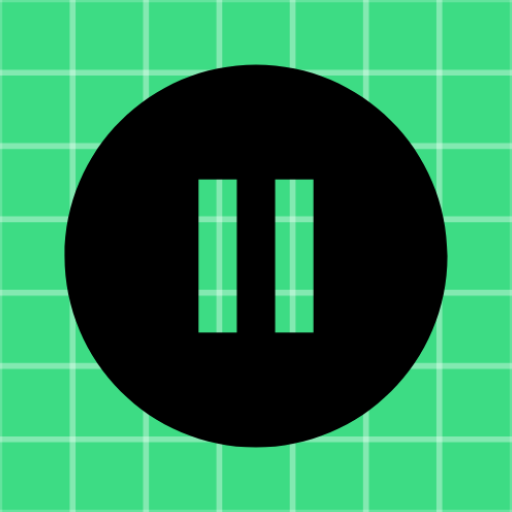
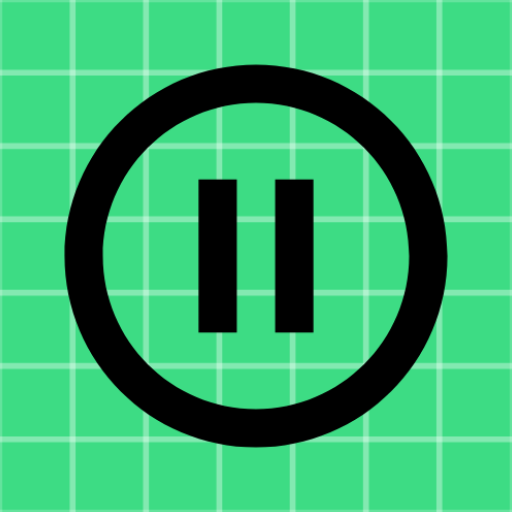
Add pause and restart audio

Changed region(s): [[0.1875, 0.1875, 0.8125, 0.8125]]

diff --git a/app/src/main/java/com/example/todolist/task/RecordingFragment.kt b/app/src/main/java/com/example/todolist/task/RecordingFragment.kt
@@ -203,16 +203,22 @@ class RecordingFragment : BottomSheetDialogFragment(), Timer.OnTimeTickListener 
 
     private fun startPlaying() {
         try {
-            media_player = MediaPlayer()
+            if (!playing) {
+                media_player = MediaPlayer()
 
-            playing = true
+                playing = true
 
-            val file = File(audio_file_path)
+                val file = File(audio_file_path)
 
-            val uri = Uri.fromFile(file)
-            media_player = MediaPlayer.create(requireContext(), uri)
-            media_player.start()
+                val uri = Uri.fromFile(file)
+                media_player = MediaPlayer.create(requireContext(), uri)
+                media_player.start()
+                view?.findViewById<ImageButton>(R.id.playRecord)?.setImageResource(R.drawable.ic_pause_foreground)
+                view?.findViewById<ImageButton>(R.id.playRecord)?.setOnClickListener {
+                    playing()
+                }
 
+            }
         } catch (e: Exception) {
             e.printStackTrace()
         }
@@ -223,6 +229,18 @@ class RecordingFragment : BottomSheetDialogFragment(), Timer.OnTimeTickListener 
         media_player.release()
 
         playing = false
+    }
+
+    private fun playing() {
+        if (playing) {
+            media_player.pause()
+            playing = false
+            view?.findViewById<ImageButton>(R.id.playRecord)?.setImageResource(R.drawable.ic_play_foreground)
+        } else {
+            media_player.start()
+            playing = true
+            view?.findViewById<ImageButton>(R.id.playRecord)?.setImageResource(R.drawable.ic_pause_foreground)
+        }
     }
 
     override fun onTimerTick(duration: String) {
